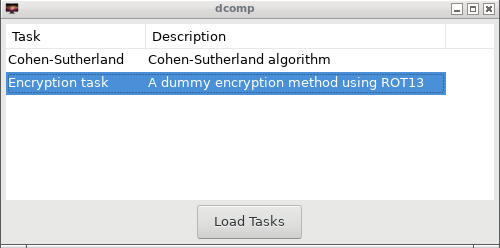
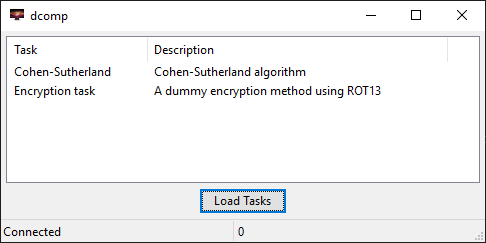
base class for tasks

Changed region(s): [[0.0, 0.0, 1.0, 1.0]]

diff --git a/client/wx/dcomp-wx.py b/client/wx/dcomp-wx.py
@@ -5,10 +5,14 @@ import wx
 from wx.lib.pubsub import setuparg1
 from wx.lib.pubsub import pub
 
-class TaskPanel(wx.Panel):    
+from task_enc import TaskEncryption
+
+class TaskPanel(wx.Panel):  
     def __init__(self, parent):
         super().__init__(parent)
         main_sizer = wx.BoxSizer(wx.VERTICAL)
+        button_sizer = wx.BoxSizer(wx.HORIZONTAL)
+
         self.row_obj_dict = {}
 
         self.list_ctrl = wx.ListCtrl(
@@ -22,29 +26,44 @@ class TaskPanel(wx.Panel):
 
         main_sizer.Add(self.list_ctrl, 1, wx.ALL | wx.EXPAND, 5)        
         task_button = wx.Button(self, label='Load Tasks')
+        task_button.SetDefault()
         task_button.Bind(wx.EVT_BUTTON, self.on_load_tasks_click)
         main_sizer.Add(task_button, 0, wx.BOTTOM | wx.CENTER, 5)
+        button_sizer.Add(task_button, 0, wx.CENTER|wx.ALL, 5)
+
+        stop_button = wx.Button(self, label='Stop Tasks')
+        stop_button.Disable()
+        button_sizer.Add(stop_button, 0, wx.CENTER|wx.ALL, 5)
+        main_sizer.Add(button_sizer, 0, wx.CENTER)
 
         self.SetSizer(main_sizer)
 
+    def start_task(self, task):
+        print("start_task called with", task, flush=True)
+        task_encryption.run(task)
+
     def on_task_item_click(self, event):
-        print(event)
+        index = self.list_ctrl.GetFocusedItem()
+
+        if index >= 0:
+            print("selected {}".format(str(self.row_obj_dict[index])), flush=True)
+
+            task = str(self.row_obj_dict[index])
+            self.start_task(task)
+
 
     def on_load_tasks_click(self, event):
-        print(event)
-        self.list_ctrl.DeleteAllItems()
-
         try:
             with urllib.request.urlopen("http://localhost:5000/tasks") as url:
                 data = json.loads(url.read().decode())
-                print(data)
 
                 index = 0
                 for name, desc in data.items():
-                	self.list_ctrl.InsertItem(index, name)
-                	self.list_ctrl.SetItem(index, 1, desc)
-                	index = index + 1
-            pub.sendMessage(('change_statusbar'), "Connected")
+                    self.list_ctrl.InsertItem(index, name)
+                    self.list_ctrl.SetItem(index, 1, desc)
+                    self.row_obj_dict[index] = name
+                    index = index + 1
+            pub.sendMessage(('change_statusbar_main'), "Connected")
         except urllib.error.HTTPError as e:
             wx.MessageBox(str(e.code), 'Error', wx.OK | wx.ICON_ERROR)
         except urllib.error.URLError as e:
@@ -55,20 +74,30 @@ class DCompFrame(wx.Frame):
         super().__init__(parent=None,
                          title='dcomp')
         self.panel = TaskPanel(self)
-        self.statusbar = self.CreateStatusBar(1)
-        pub.subscribe(self.change_statusbar, 'change_statusbar')
-        pub.sendMessage(('change_statusbar'), "Not Connected")
+        self.statusbar = self.CreateStatusBar(2)
+        pub.subscribe(self.change_statusbar_main, 'change_statusbar_main')
+        pub.subscribe(self.change_statusbar_task_count, 'change_statusbar_task_count')
+        pub.sendMessage(('change_statusbar_main'), "Not Connected")
+        pub.sendMessage(('change_statusbar_task_count'), "0")
+
         self.SetMinSize((500,250))
         self.Center()
         self.Show()
 
-    def change_statusbar(self, msg):
-        print(str(msg))
+    def change_statusbar_main(self, msg):
         self.SetStatusText(msg.data)
 
+    def change_statusbar_task_count(self, msg):
+        self.SetStatusText(msg.data, 1)
+
 if __name__ == '__main__':
+
     app = wx.App(False)
     frame = DCompFrame()
     #icon from http://icons8.com/
     frame.SetIcon(wx.Icon("Sirubico-Black-Metal-PC.ico"))
+
+    task_encryption = TaskEncryption()
+
+    print(str(task_encryption), flush=True)
     app.MainLoop()

diff --git a/client/wx/task_cs.py b/client/wx/task_cs.py
@@ -1,0 +1,10 @@
+import datetime
+from task_base import TaskBase
+
+# Cohen-Sutherland implementation
+class TaskCS(TaskBase):
+
+    def run(self, task):
+      print(self)
+      print(task)
+      print(datetime.datetime.now(), flush=True)  

diff --git a/client/wx/task_enc.py b/client/wx/task_enc.py
@@ -1,0 +1,10 @@
+import datetime
+from task_base import TaskBase
+
+class TaskEncryption(TaskBase):
+
+    def run(self, task):
+      print(self)
+      print(task)
+      print(datetime.datetime.now(), flush=True)
+

diff --git a/client/wx/task_base.py b/client/wx/task_base.py
@@ -1,0 +1,7 @@
+from abc import ABC, abstractmethod 
+
+class TaskBase(ABC): 
+  
+    # abstract method 
+    def run(self): 
+        pass
